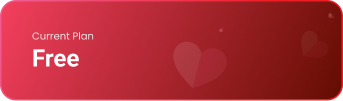
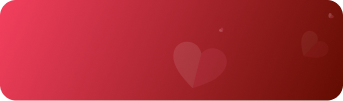
Refector code and add some image on home screeen, profile screen, subscription screen

Changed region(s): [[0.0, 0.0, 1.0, 1.0], [0.0875, 0.4752, 0.2332, 0.6832], [0.0875, 0.297, 0.2915, 0.4158]]

diff --git a/src/components/cards/ProfileCard.tsx b/src/components/cards/ProfileCard.tsx
@@ -1,0 +1,111 @@
+import React from 'react';
+import {
+  View,
+  Text,
+  StyleSheet,
+  Image,
+  ImageBackground,
+  ImageSourcePropType,
+} from 'react-native';
+import {CustomCircularProgressBar} from '../../common';
+
+type ProfileData = {
+  pregressActive?: boolean;
+  percentage?: number;
+  source?: ImageSourcePropType;
+};
+
+const ProfileCard = (props: ProfileData) => {
+  const {
+    pregressActive = true,
+    percentage = 78,
+    source = require('../../assets/home.png'),
+  } = props;
+
+  return (
+    <ImageBackground
+      // source={require('../../assets/home.png')}
+      source={source}
+      style={styles.card}
+      resizeMode="cover"
+      imageStyle={styles.imageStyle}>
+      {pregressActive && (
+        <View style={styles.percentageContainer}>
+          <View style={{marginTop: 20, marginBottom: 10, marginHorizontal: 5}}>
+            <CustomCircularProgressBar
+              progress={percentage}
+              radius={15}
+              strokeWidth={2}
+              color="#8B2729"
+              textStyle={{
+                color: '#8B2729',
+                fontSize: 6,
+              }}
+            />
+          </View>
+        </View>
+      )}
+
+      <View style={styles.content}>
+        <Image
+          source={{
+            uri: 'https://plus.unsplash.com/premium_photo-1664298311043-46b3814a511f?w=900&auto=format&fit=crop&q=60&ixlib=rb-4.1.0&ixid=M3wxMjA3fDB8MHxzZWFyY2h8MXx8YWlyJTIwcG9sbHV0aW9ufGVufDB8fDB8fHww',
+          }}
+          style={styles.avatar}
+        />
+        <View>
+          <Text style={styles.name}>Samantha John</Text>
+          <Text style={styles.address}>H-70, Sector 63</Text>
+        </View>
+      </View>
+    </ImageBackground>
+  );
+};
+
+const styles = StyleSheet.create({
+  card: {
+    height: 129,
+    borderRadius: 20,
+    overflow: 'hidden',
+    padding: 16,
+    justifyContent: 'center',
+    backgroundColor: '#ccc',
+    marginVertical: 10,
+  },
+  imageStyle: {
+    borderRadius: 20,
+    resizeMode: 'cover',
+  },
+  content: {
+    flexDirection: 'row',
+    alignItems: 'center',
+  },
+  avatar: {
+    height: 70,
+    width: 70,
+    borderRadius: 35,
+    borderWidth: 3,
+    borderColor: '#fff',
+    marginRight: 16,
+  },
+  name: {
+    fontSize: 18,
+    fontWeight: 'bold',
+    color: '#fff',
+  },
+  address: {
+    fontSize: 14,
+    color: '#fff',
+    marginTop: 4,
+  },
+  percentageContainer: {
+    position: 'absolute',
+    top: 0,
+    right: 20,
+    backgroundColor: '#fff',
+    borderBottomLeftRadius: 20,
+    borderBottomRightRadius: 20,
+  },
+});
+
+export default ProfileCard;

diff --git a/src/routes/main/ProfileScreen.tsx b/src/routes/main/ProfileScreen.tsx
@@ -1,16 +1,9 @@
 import React from 'react';
-import {
-  FlatList,
-  Image,
-  SafeAreaView,
-  StyleSheet,
-  Text,
-  View,
-} from 'react-native';
+import {FlatList, SafeAreaView, StyleSheet, Text, View} from 'react-native';
 import {profileList, theme} from '../../constant';
 import {authService, navigate} from '../../services';
 import {CustomButton} from '../../common';
-import {CustomOptionItem} from '../../components';
+import {CustomOptionItem, ProfileCard} from '../../components';
 
 const ProfileScreen = () => {
   const isLogin = true;
@@ -18,23 +11,10 @@ const ProfileScreen = () => {
   const renderHeader = () => (
     <View>
       {isLogin ? (
-        <View style={styles.profileCard}>
-          <Image
-            source={{
-              uri: 'https://images.unsplash.com/photo-1494790108377-be9c29b29330?q=80&w=3087',
-            }}
-            resizeMode="cover"
-            style={styles.avatar}
-          />
-          <View style={{flexDirection: 'column', gap: 4}}>
-            <Text style={styles.whiteText}>Samantha John</Text>
-            <View>
-              <Text style={styles.addressText}>
-                H-70, Sector 63, Noida, U.P
-              </Text>
-            </View>
-          </View>
-        </View>
+        <ProfileCard
+          pregressActive={false}
+          source={require('../../assets/profile.png')}
+        />
       ) : (
         <View style={styles.logoutprofileCard}>
           <Text style={styles.whiteText}>You are not sign in!</Text>
@@ -106,7 +86,6 @@ const styles = StyleSheet.create({
   },
   container: {
     flex: 1,
-    paddingTop: 16,
     paddingHorizontal: 16,
     backgroundColor: '#fff',
   },

diff --git a/src/routes/main/HomeScreen.tsx b/src/routes/main/HomeScreen.tsx
@@ -1,4 +1,3 @@
-// screens/HomeScreen.tsx
 import React from 'react';
 import {
   Dimensions,
@@ -8,11 +7,15 @@ import {
   StyleSheet,
   Text,
   View,
-  AccessibilityRole,
 } from 'react-native';
-import {CustomButton, GradientText, UpgradeButton} from '../../common';
+import {GradientText, UpgradeButton} from '../../common';
 import {RightIcon} from '../../assets';
-import {CardItem, MatchCard, ProfileCompletionBanner} from '../../components';
+import {
+  CardItem,
+  MatchCard,
+  ProfileCard,
+  ProfileCompletionBanner,
+} from '../../components';
 import {cardListData} from '../../constant/cardListData';
 import {navigate} from '../../services';
 
@@ -27,6 +30,7 @@ const HomeScreen: React.FC = () => {
         accessibilityLabel="Main content scroll area"
         showsVerticalScrollIndicator={false}>
         <View style={styles.innerContainer}>
+          <ProfileCard />
           <UpgradeButton />
 
           <View style={styles.headerRow} accessibilityRole="header">
@@ -95,12 +99,14 @@ export default HomeScreen;
 const styles = StyleSheet.create({
   container: {
     flex: 1,
+    backgroundColor: '#fff',
   },
   scrollContainer: {
     paddingBottom: 20,
   },
   innerContainer: {
     paddingHorizontal: 16,
+    backgroundColor: '#fff',
   },
   title: {
     color: '#8B2729',

diff --git a/src/components/cards/SubscriptionCard.tsx b/src/components/cards/SubscriptionCard.tsx
@@ -1,0 +1,50 @@
+import React from 'react';
+import {View, Text, StyleSheet, ImageBackground} from 'react-native';
+
+const SubscriptionCard = () => {
+  return (
+    <ImageBackground
+      source={require('../../assets/subscription.png')}
+      style={styles.card}
+      imageStyle={styles.imageStyle}>
+      <View style={styles.content}>
+        <View>
+          <Text style={styles.name}>Current Plan</Text>
+          <Text style={styles.address}>Free</Text>
+        </View>
+      </View>
+    </ImageBackground>
+  );
+};
+
+const styles = StyleSheet.create({
+  card: {
+    height: 100,
+    borderRadius: 20,
+    overflow: 'hidden',
+    padding: 16,
+    justifyContent: 'center',
+    backgroundColor: '#ccc',
+  },
+  imageStyle: {
+    borderRadius: 20,
+    resizeMode: 'cover',
+  },
+  content: {
+    flexDirection: 'row',
+    alignItems: 'center',
+  },
+  name: {
+    fontSize: 10,
+    fontWeight: '400',
+    color: '#E8E8E8',
+  },
+  address: {
+    fontSize: 24,
+    fontWeight: '700',
+    color: '#fff',
+    marginTop: 4,
+  },
+});
+
+export default SubscriptionCard;

diff --git a/src/routes/auth/SignupScreen.tsx b/src/routes/auth/SignupScreen.tsx
@@ -9,6 +9,7 @@ import {
   CustomKeyboardAvoidingView,
 } from '../../common';
 import {LoginLogo, SignupForm} from '../../components/auth';
+import {navigate} from '../../services';
 
 const SignupScreen = ({
   navigation,
@@ -35,7 +36,17 @@ const SignupScreen = ({
           onChangePhoneNumber={text => setForm({...form, phoneNo: text})}
           onLoginPress={() => navigation.navigate('Login')}
         />
-        <CustomButton title="Sign Up" />
+        <CustomButton
+          title="Sign Up"
+          style={{
+            paddingBottom: StatusBar.currentHeight,
+          }}
+          onPress={() =>
+            navigate('Auth', {
+              screen: 'Otp',
+            })
+          }
+        />
       </CustomKeyboardAvoidingView>
     </SafeAreaView>
   );
@@ -52,6 +63,6 @@ const styles = StyleSheet.create({
     flex: 1,
     justifyContent: 'space-between',
     paddingHorizontal: theme.spacing.xl,
-    paddingVertical: theme.spacing.lg,
+    paddingVertical: StatusBar.currentHeight,
   },
 });

diff --git a/src/routes/others/SubscriptionScreen.tsx b/src/routes/others/SubscriptionScreen.tsx
@@ -12,6 +12,7 @@ import LinearGradient from 'react-native-linear-gradient';
 import Icon from 'react-native-vector-icons/MaterialIcons';
 import {CustomButton} from '../../common';
 import {navigate} from '../../services';
+import {SubscriptionCard} from '../../components';
 
 const {width: SCREEN_WIDTH} = Dimensions.get('window');
 
@@ -44,12 +45,7 @@ const SubscriptionScreen = () => {
     <View style={styles.container}>
       <ScrollView showsVerticalScrollIndicator={false}>
         <View style={{padding: 16}}>
-          <Image
-            source={require('../../assets/subscription.png')}
-            style={{
-              width: SCREEN_WIDTH - 32,
-            }}
-          />
+          <SubscriptionCard />
         </View>
         <View style={styles.tabRow}>
           {plans.map((plan, index) => {

diff --git a/src/components/auth/LoginForm.tsx b/src/components/auth/LoginForm.tsx
@@ -1,5 +1,6 @@
 import React from 'react';
 import {
+  StatusBar,
   StyleSheet,
   Text,
   TextInput,
@@ -53,7 +54,13 @@ const LoginForm = (props: Props) => {
         </View>
       </View>
 
-      <CustomButton title="Login" onPress={onLoginHandle} />
+      <CustomButton
+        title="Login"
+        onPress={onLoginHandle}
+        style={{
+          paddingBottom: StatusBar.currentHeight,
+        }}
+      />
     </View>
   );
 };

diff --git a/src/components/cards/index.ts b/src/components/cards/index.ts
@@ -2,4 +2,6 @@ export {default as CardItem} from './CardItem';
 export {default as MatchCard} from './MatchCard';
 export {default as SwipCardItem} from './SwipCardItem';
 export {default as SwipeableCard} from './SwipeableCard';
+export {default as ProfileCard} from './ProfileCard';
+export {default as SubscriptionCard} from './SubscriptionCard';
 export type {SwipeableCardRef} from './SwipeableCard';

diff --git a/src/routes/auth/OtpScreen.tsx b/src/routes/auth/OtpScreen.tsx
@@ -58,6 +58,9 @@ const OtpScreen = ({
         <CustomButton
           title="Verify OTP"
           onPress={() => navigation.navigate('OtpVerification')}
+          style={{
+            paddingBottom: StatusBar.currentHeight,
+          }}
         />
       </CustomKeyboardAvoidingView>
     </SafeAreaView>

diff --git a/src/components/index.ts b/src/components/index.ts
@@ -4,6 +4,8 @@ export {
   MatchCard,
   SwipCardItem,
   SwipeableCard,
+  ProfileCard,
+  SubscriptionCard,
   type SwipeableCardRef,
 } from './cards';
 export {default as ProfileCompletionBanner} from './ProfileCompletionBanner';
